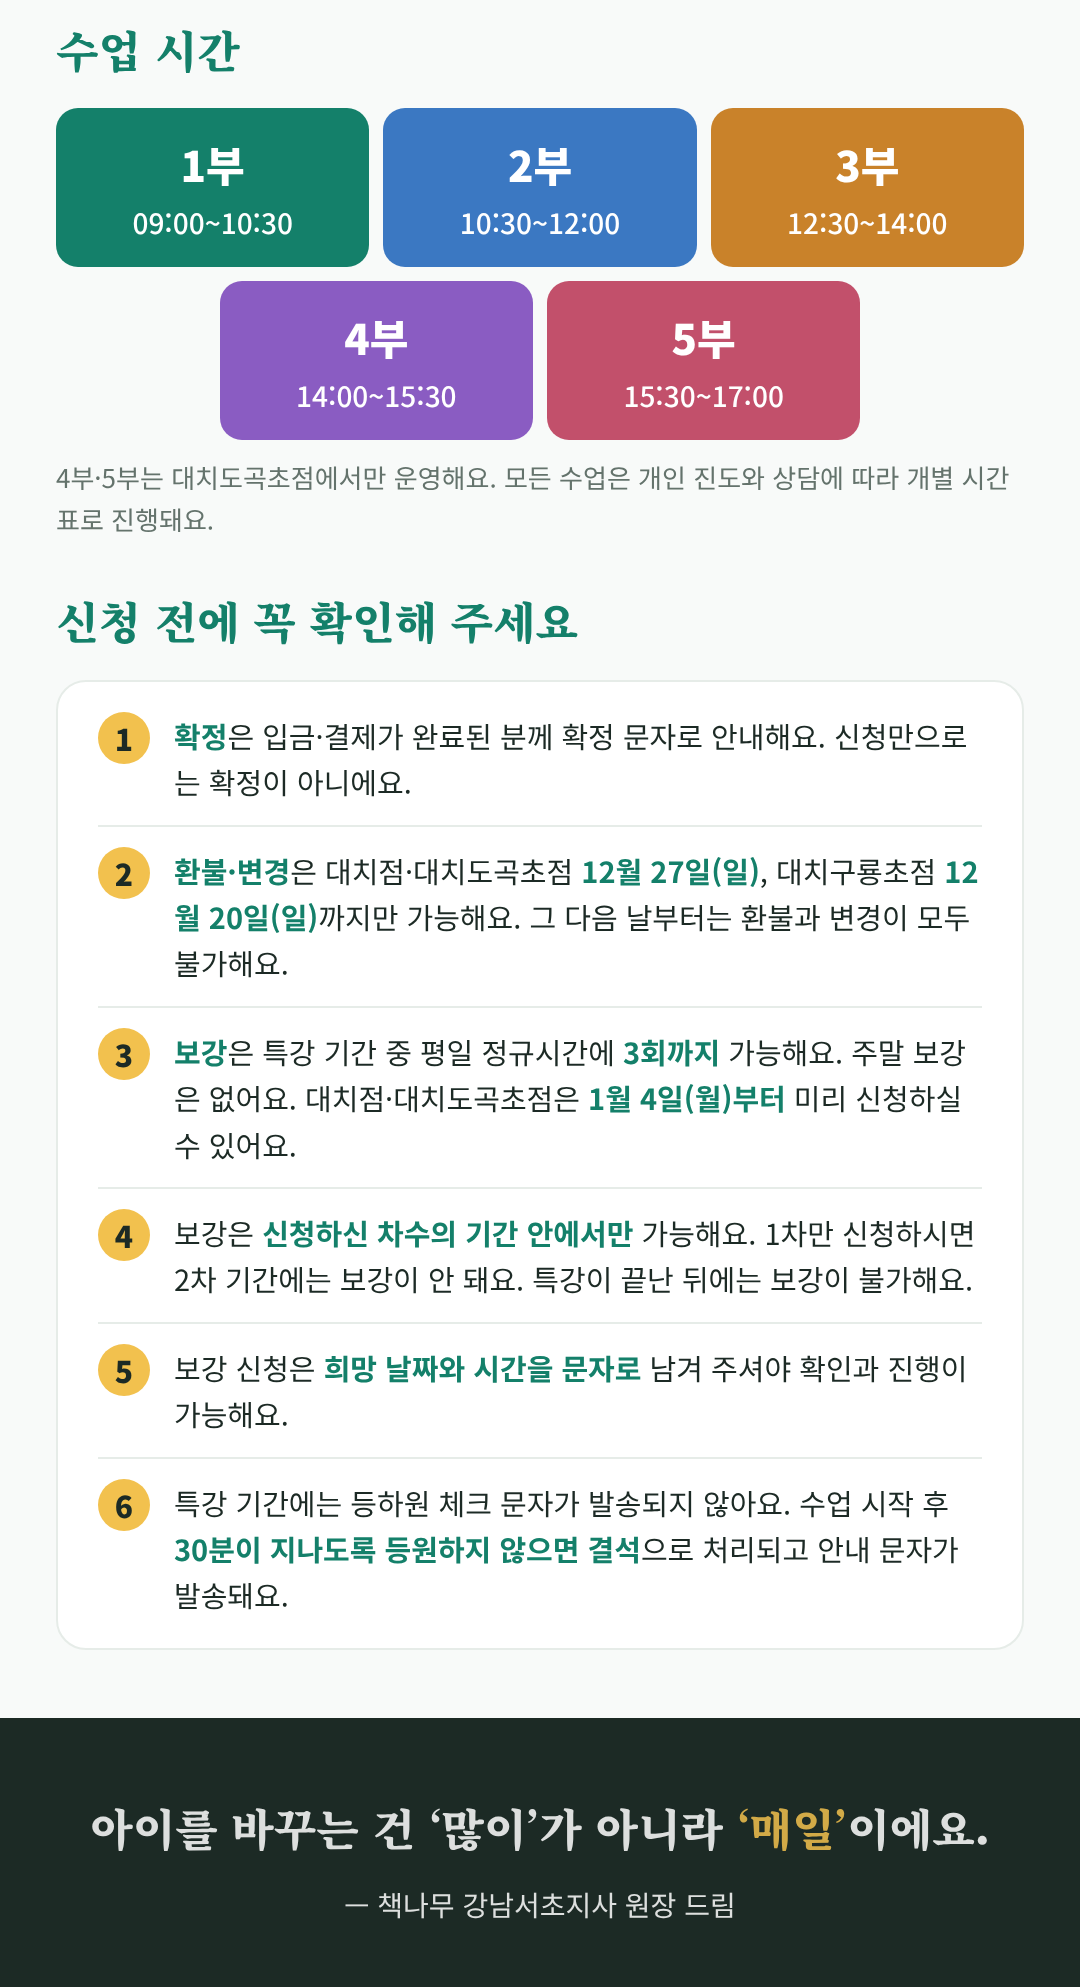
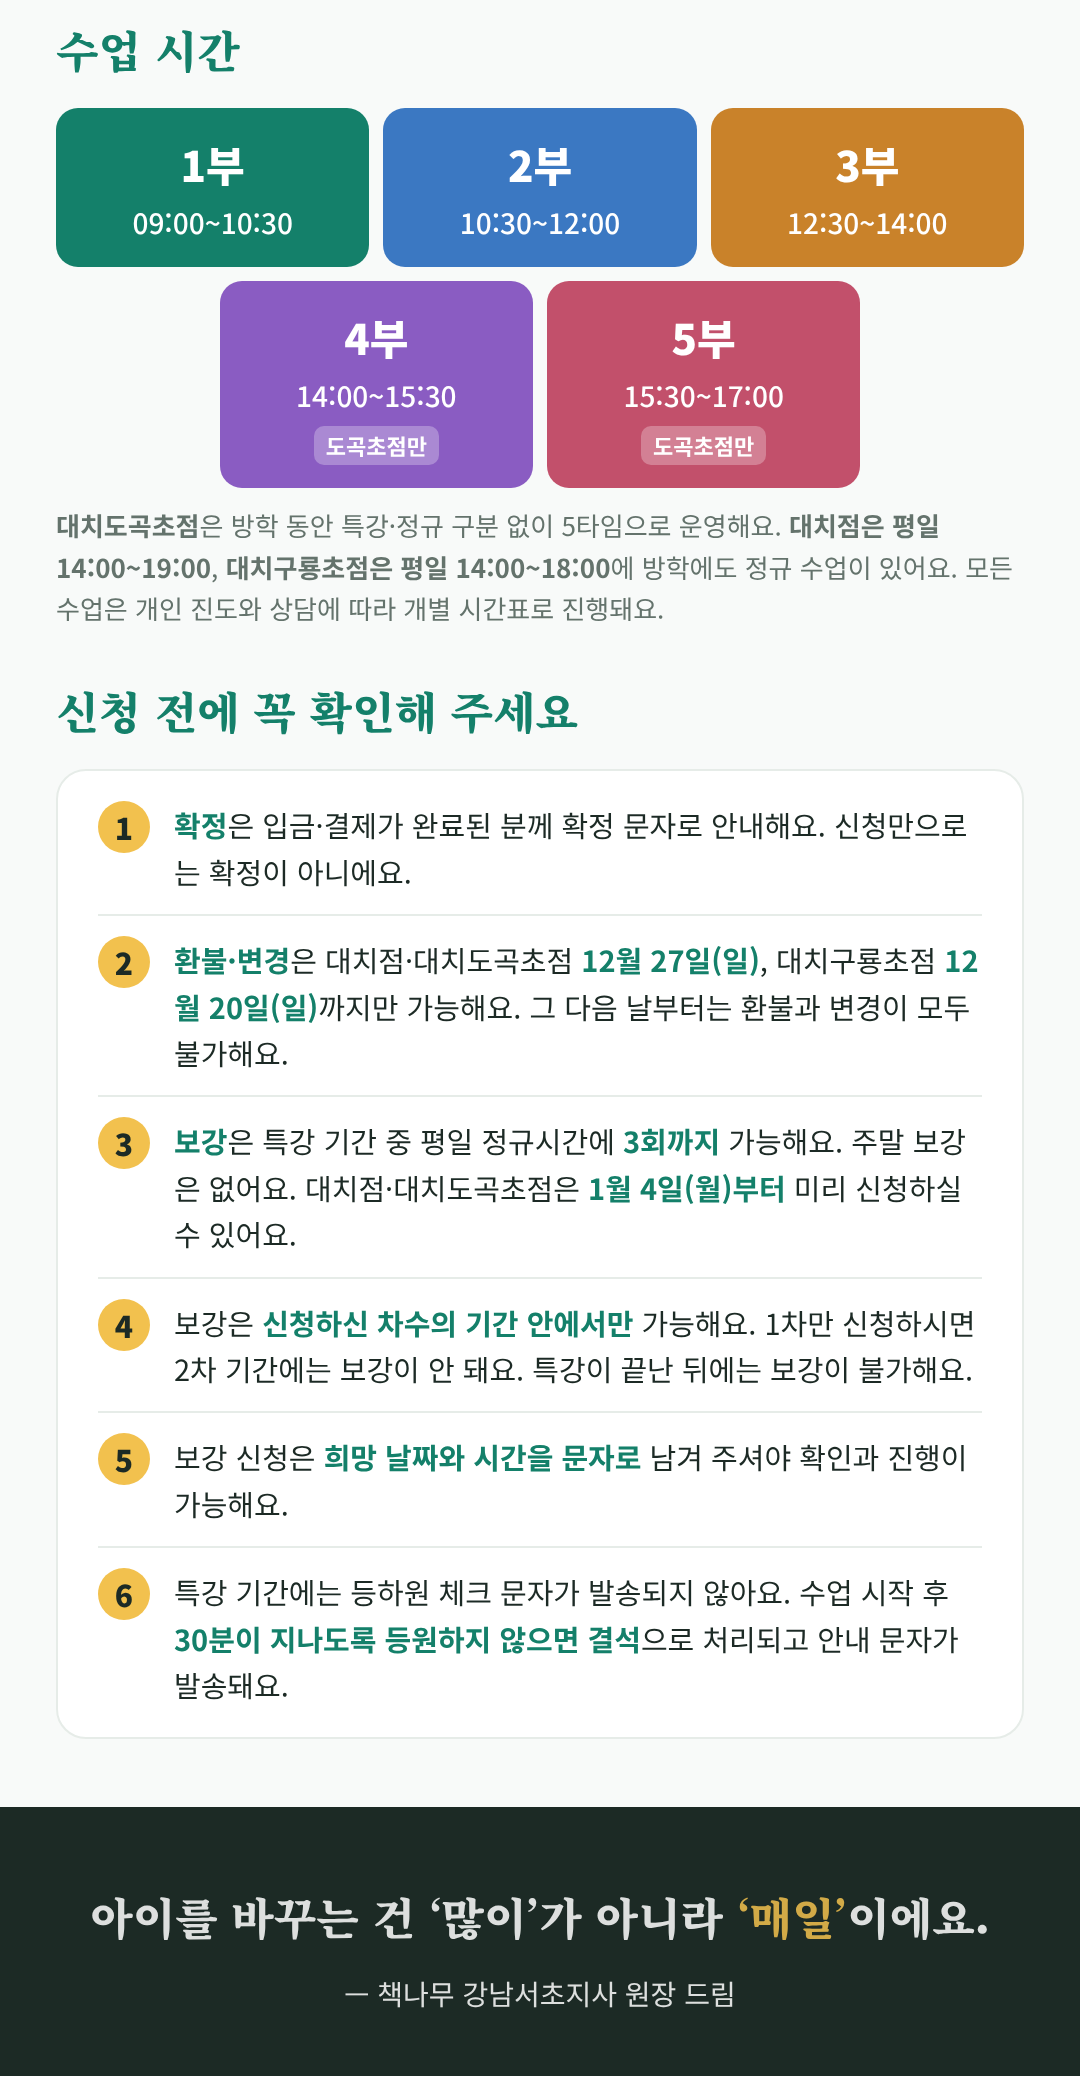
4·5부는 도곡초점만, 대치점·구룡초점은 정규 수업 시간(14~19시/14~18시)만 표시
Claude-Session: https://claude.ai/code/session_01CMkHt9vR7B71WRJrYuVxsD

Changed region(s): [[0.0, 0.0, 1.0, 0.8737], [0.0917, 0.9049, 0.9167, 0.9673], [0.0611, 0.0, 0.1222, 0.0624]]

diff --git a/chaeknamu-winter/src/app/admin/(panel)/settings/page.tsx b/chaeknamu-winter/src/app/admin/(panel)/settings/page.tsx
@@ -3,7 +3,7 @@ import { query } from "@/lib/db";
 import { deleteCurriculum, deleteField, saveBranch, saveTexts, saveCurriculum, saveField, sheetRebuild, sheetSyncNow } from "../../actions";
 import { sheetStatus } from "@/lib/sheets";
 
-type B = { id: string; name: string; open_at: string | null; close_at: string | null; refund_deadline: string; bundle_price: number; contact_url: string | null; notice: string | null; makeup_limit: number; partial_full_mode: string; makeup_start_date: string | null; priority_end_at: string | null; general_open_at: string | null; final_deadline_at: string | null };
+type B = { id: string; name: string; open_at: string | null; close_at: string | null; refund_deadline: string; bundle_price: number; contact_url: string | null; notice: string | null; makeup_limit: number; partial_full_mode: string; makeup_start_date: string | null; regular_hours: string | null; priority_end_at: string | null; general_open_at: string | null; final_deadline_at: string | null };
 type S = { id: string; branch_id: string; code: string; price: number; lesson_count: number };
 type L = { id: string; session_id: string; label: string; capacity: number | null };
 
@@ -14,7 +14,7 @@ export default async function Settings({ searchParams }: { searchParams: Promise
   const texts = Object.fromEntries((await query<{ key: string; value: string }>("select key, value from app_settings where key in ('confirm_notice', 'payment_info')")).map((r) => [r.key, r.value]));
   const kstv = (c: string) => `to_char(${c} at time zone 'Asia/Seoul', 'YYYY-MM-DD"T"HH24:MI')`;
   const [branches, sessions, slots, curriculum, fields, note] = await Promise.all([
-    query<B>(`select id, name, ${kstv("open_at")} open_at, ${kstv("close_at")} close_at, ${kstv("refund_deadline")} refund_deadline, bundle_price, contact_url, notice, makeup_limit, partial_full_mode, to_char(makeup_start_date, 'YYYY-MM-DD') makeup_start_date, ${kstv("priority_end_at")} priority_end_at, ${kstv("general_open_at")} general_open_at, ${kstv("final_deadline_at")} final_deadline_at from branches order by sort_order`),
+    query<B>(`select id, name, ${kstv("open_at")} open_at, ${kstv("close_at")} close_at, ${kstv("refund_deadline")} refund_deadline, bundle_price, contact_url, notice, regular_hours, makeup_limit, partial_full_mode, to_char(makeup_start_date, 'YYYY-MM-DD') makeup_start_date, ${kstv("priority_end_at")} priority_end_at, ${kstv("general_open_at")} general_open_at, ${kstv("final_deadline_at")} final_deadline_at from branches order by sort_order`),
     query<S>("select id, branch_id, code, price, lesson_count from sessions order by code"),
     query<L>("select id, session_id, label, capacity from slots order by sort_order"),
     query<{ id: string; grade_group: string; items: string[] }>("select id, grade_group, items from curriculum order by sort_order"),
@@ -72,6 +72,7 @@ export default async function Settings({ searchParams }: { searchParams: Promise
                 <select name="partial_full_mode" defaultValue={b.partial_full_mode} className="input"><option value="all_wait">전체 대기로 접수</option><option value="split">차수별로 나눠 접수</option></select></div>
             </div>
             <div><label className="label">문의 링크</label><input name="contact_url" defaultValue={b.contact_url ?? ""} className="input" placeholder="https://" /></div>
+            <div><label className="label">방학 중 정규 수업 시간 (예: 14:00~19:00, 도곡초점처럼 정규가 따로 없으면 비워 두세요)</label><input name="regular_hours" defaultValue={b.regular_hours ?? ""} className="input" placeholder="14:00~19:00" /></div>
             <div><label className="label">지점 안내 메모 (안내 페이지에 표시)</label><textarea name="notice" defaultValue={b.notice ?? ""} className="input !min-h-20 py-2" /></div>
             {sessions.filter((s) => s.branch_id === b.id).map((s) => (
               <div key={s.id} className="rounded-xl bg-snow p-3">

diff --git a/chaeknamu-winter/docs/notice/notice.html b/chaeknamu-winter/docs/notice/notice.html
@@ -51,6 +51,7 @@ h2{font-family:'Noto Serif KR',serif;font-weight:900;font-size:44px;color:var(--
 .slots{display:flex;flex-wrap:wrap;justify-content:center;gap:14px}
 .slot{flex:0 0 calc((100% - 28px)/3);border-radius:22px;padding:22px 10px;text-align:center;color:#fff}
 .slot b{display:block;font-size:42px;font-weight:900}.slot span{font-size:28px;font-weight:500}
+.slot small{display:inline-block;font-size:22px;margin-top:8px;background:rgba(255,255,255,.28);border-radius:10px;padding:2px 12px;font-weight:700}
 .s1{background:#14806a}.s2{background:#3b78c2}.s3{background:#c9822a}.s4{background:#8a5cc2}.s5{background:#c2506b}
 ol{list-style:none;counter-reset:n;padding:10px 40px}
 ol li{counter-increment:n;position:relative;padding:20px 0 20px 76px;border-top:2px solid var(--line);font-size:29px}
@@ -117,10 +118,10 @@ ol li b{color:var(--g1)}
     <div class="slot s1"><b>1부</b><span>09:00~10:30</span></div>
     <div class="slot s2"><b>2부</b><span>10:30~12:00</span></div>
     <div class="slot s3"><b>3부</b><span>12:30~14:00</span></div>
-    <div class="slot s4"><b>4부</b><span>14:00~15:30</span></div>
-    <div class="slot s5"><b>5부</b><span>15:30~17:00</span></div>
+    <div class="slot s4"><b>4부</b><span>14:00~15:30</span><br><small>도곡초점만</small></div>
+    <div class="slot s5"><b>5부</b><span>15:30~17:00</span><br><small>도곡초점만</small></div>
   </div>
-  <p class="note">4부·5부는 대치도곡초점에서만 운영해요. 모든 수업은 개인 진도와 상담에 따라 개별 시간표로 진행돼요.</p>
+  <p class="note"><b>대치도곡초점</b>은 방학 동안 특강·정규 구분 없이 5타임으로 운영해요. <b>대치점은 평일 14:00~19:00</b>, <b>대치구룡초점은 평일 14:00~18:00</b>에 방학에도 정규 수업이 있어요. 모든 수업은 개인 진도와 상담에 따라 개별 시간표로 진행돼요.</p>
 
   <h2 style="margin-top:46px">신청 전에 꼭 확인해 주세요</h2>
   <div class="card"><ol>

diff --git a/chaeknamu-winter/src/app/admin/actions.ts b/chaeknamu-winter/src/app/admin/actions.ts
@@ -74,10 +74,11 @@ export async function saveBranch(fd: FormData) {
        makeup_start_date = nullif($10, '')::date,
        priority_end_at = ($11::text)::timestamp at time zone 'Asia/Seoul',
        general_open_at = ($12::text)::timestamp at time zone 'Asia/Seoul',
-       final_deadline_at = ($13::text)::timestamp at time zone 'Asia/Seoul'
+       final_deadline_at = ($13::text)::timestamp at time zone 'Asia/Seoul',
+       regular_hours = nullif($14, '')
      where id = $1`,
     [id, kst(fd.get("open_at")), kst(fd.get("close_at")), kst(fd.get("refund_deadline")), Number(fd.get("bundle_price")),
-     String(fd.get("contact_url") ?? "").trim(), String(fd.get("notice") ?? "").trim(), Number(fd.get("makeup_limit")), String(fd.get("partial_full_mode")), String(fd.get("makeup_start_date") ?? ""), kst(fd.get("priority_end_at")), kst(fd.get("general_open_at")), kst(fd.get("final_deadline_at"))],
+     String(fd.get("contact_url") ?? "").trim(), String(fd.get("notice") ?? "").trim(), Number(fd.get("makeup_limit")), String(fd.get("partial_full_mode")), String(fd.get("makeup_start_date") ?? ""), kst(fd.get("priority_end_at")), kst(fd.get("general_open_at")), kst(fd.get("final_deadline_at")), String(fd.get("regular_hours") ?? "").trim()],
   );
   for (const [k, v] of fd.entries()) {
     if (k.startsWith("cap_")) await query("update slots set capacity = $2 where id = $1", [k.slice(4), toNum(v)]);

diff --git a/chaeknamu-winter/src/app/[branch]/page.tsx b/chaeknamu-winter/src/app/[branch]/page.tsx
@@ -52,6 +52,11 @@ export default async function BranchPage({ params }: { params: Promise<{ branch:
             <li key={t.id} className="py-2">{slotText(t)}</li>
           ))}
         </ul>
+        {b.regular_hours && (
+          <p className="mt-3 rounded-xl bg-mint p-3 text-[15px]">
+            <b>방학에도 정규 수업이 있어요.</b> 정규 수업은 평일 {b.regular_hours}에 운영돼요. (위 특강 시간과 별개예요)
+          </p>
+        )}
       </div>
 
       {b.notice && (

diff --git a/chaeknamu-winter/src/lib/types.ts b/chaeknamu-winter/src/lib/types.ts
@@ -23,6 +23,7 @@ export type Branch = {
   refund_deadline: string;
   contact_url: string | null;
   notice: string | null;
+  regular_hours: string | null;
   bundle_price: number;
   makeup_limit: number;
   makeup_start_date: string | null;

diff --git a/chaeknamu-winter/CLAUDE.md b/chaeknamu-winter/CLAUDE.md
@@ -62,7 +62,7 @@ Next.js 15(App Router)+TypeScript+Tailwind / Supabase(Postgres+Auth, Seoul) / Ve
 ### 5-3. 지점별 운영 메모(안내 페이지 표시)
 - 대치점: 방학 중 정규수업은 평일 14:00~19:00 (학기 중 21:00까지).
 - 도곡초점: 방학 동안 특강·정규 구분 없이 5타임 운영. 정규 수강생도 이 앱에서 타임 신청. 신청 폼 '재원 구분'에 "정규 재원생(타임 신청만)" 선택지. 이 경우 금액 표시 [미정 — 정규생도 특강비를 내는지, 타임만 잡는지].
-- 구룡초점: 오후 타임 [미정].
+- 구룡초점: 방학 중에도 정규 수업이 있고 정규 시간은 평일 14:00~18:00 (확정). 오후 특강 타임은 없다.
 
 ### 5-4. 학년별 수업 (지난 방학 기준, 새 커리로 교체)
 - 1~2학년: 시사독해·일기쓰기와 활동지, 긴 글쓰기, 다양한 영역 독서와 북토킹
@@ -245,7 +245,7 @@ DB(예정): `attendance(application_id, date, slot_id, status, checked_by, check
 - [ ] 관리자 이메일 목록(원장, 지점 관리자)
 - [ ] 지점·차수·타임별 정원 숫자
 - [ ] 지점별 신청 오픈 일시
-- [ ] 도곡·구룡 문의 링크, 구룡 오후 타임
+- [ ] 도곡·구룡 문의 링크
 - [ ] 트리토크 영상 URL
 - [ ] (선택) 전용 도메인/하위 도메인
 - [ ] 리틀리에 걸 최종 링크 위치
@@ -264,4 +264,4 @@ DB(예정): `attendance(application_id, date, slot_id, status, checked_by, check
 - [ ] 리허설: 직원 3~5명 실제 휴대폰 동시 가짜 신청 → 관리자 화면·시트 확인 → 테스트 데이터 삭제(삭제 전 원장 확인)
 
 ## 15. 미정 항목 (원장 확인 필요)
-타임별 정원 / 지점별 신청 오픈 일시 / 구룡 환불 마감(임시 12/20) / 보강 3회가 도곡·구룡도 같은지 / 구룡 오후 타임 / 도곡 정규 재원생 금액 처리 / 1·2차 한쪽만 마감 시 처리 / 학년 기준 / 입금 계좌 표시 여부 / 개인정보 보유 기간 / 도곡·구룡 문의 링크, 트리토크 영상 URL / 2027 겨울 학년별 커리 최종본
+타임별 정원 / 지점별 신청 오픈 일시 / 구룡 환불 마감(임시 12/20) / 보강 3회가 도곡·구룡도 같은지 / 도곡 정규 재원생 금액 처리 / 1·2차 한쪽만 마감 시 처리 / 학년 기준 / 입금 계좌 표시 여부 / 개인정보 보유 기간 / 도곡·구룡 문의 링크, 트리토크 영상 URL / 2027 겨울 학년별 커리 최종본

diff --git a/chaeknamu-winter/docs/SETUP-GUIDE.md b/chaeknamu-winter/docs/SETUP-GUIDE.md
@@ -236,7 +236,7 @@ Vercel **Settings → Environment Variables**에 3개 추가:
 ## 10. 지금 제가 확인해야 하는 질문 (정해지면 알려주세요)
 
 1. 구룡초점 환불 마감일 (임시 12/20)
-2. 구룡 오후 타임 / 도곡·구룡 문의 링크 / 트리토크 영상 주소
+2. 도곡·구룡 문의 링크 / 트리토크 영상 주소
 3. 도곡 정규 재원생이 타임 신청할 때 금액 처리
 4. 1·2차 중 한쪽만 마감일 때: 전체 대기 vs 나눠서 처리 (설정으로 바꿀 수 있어요)
 5. 학년 기준 (현재 학년 vs 2027년 새 학년)
